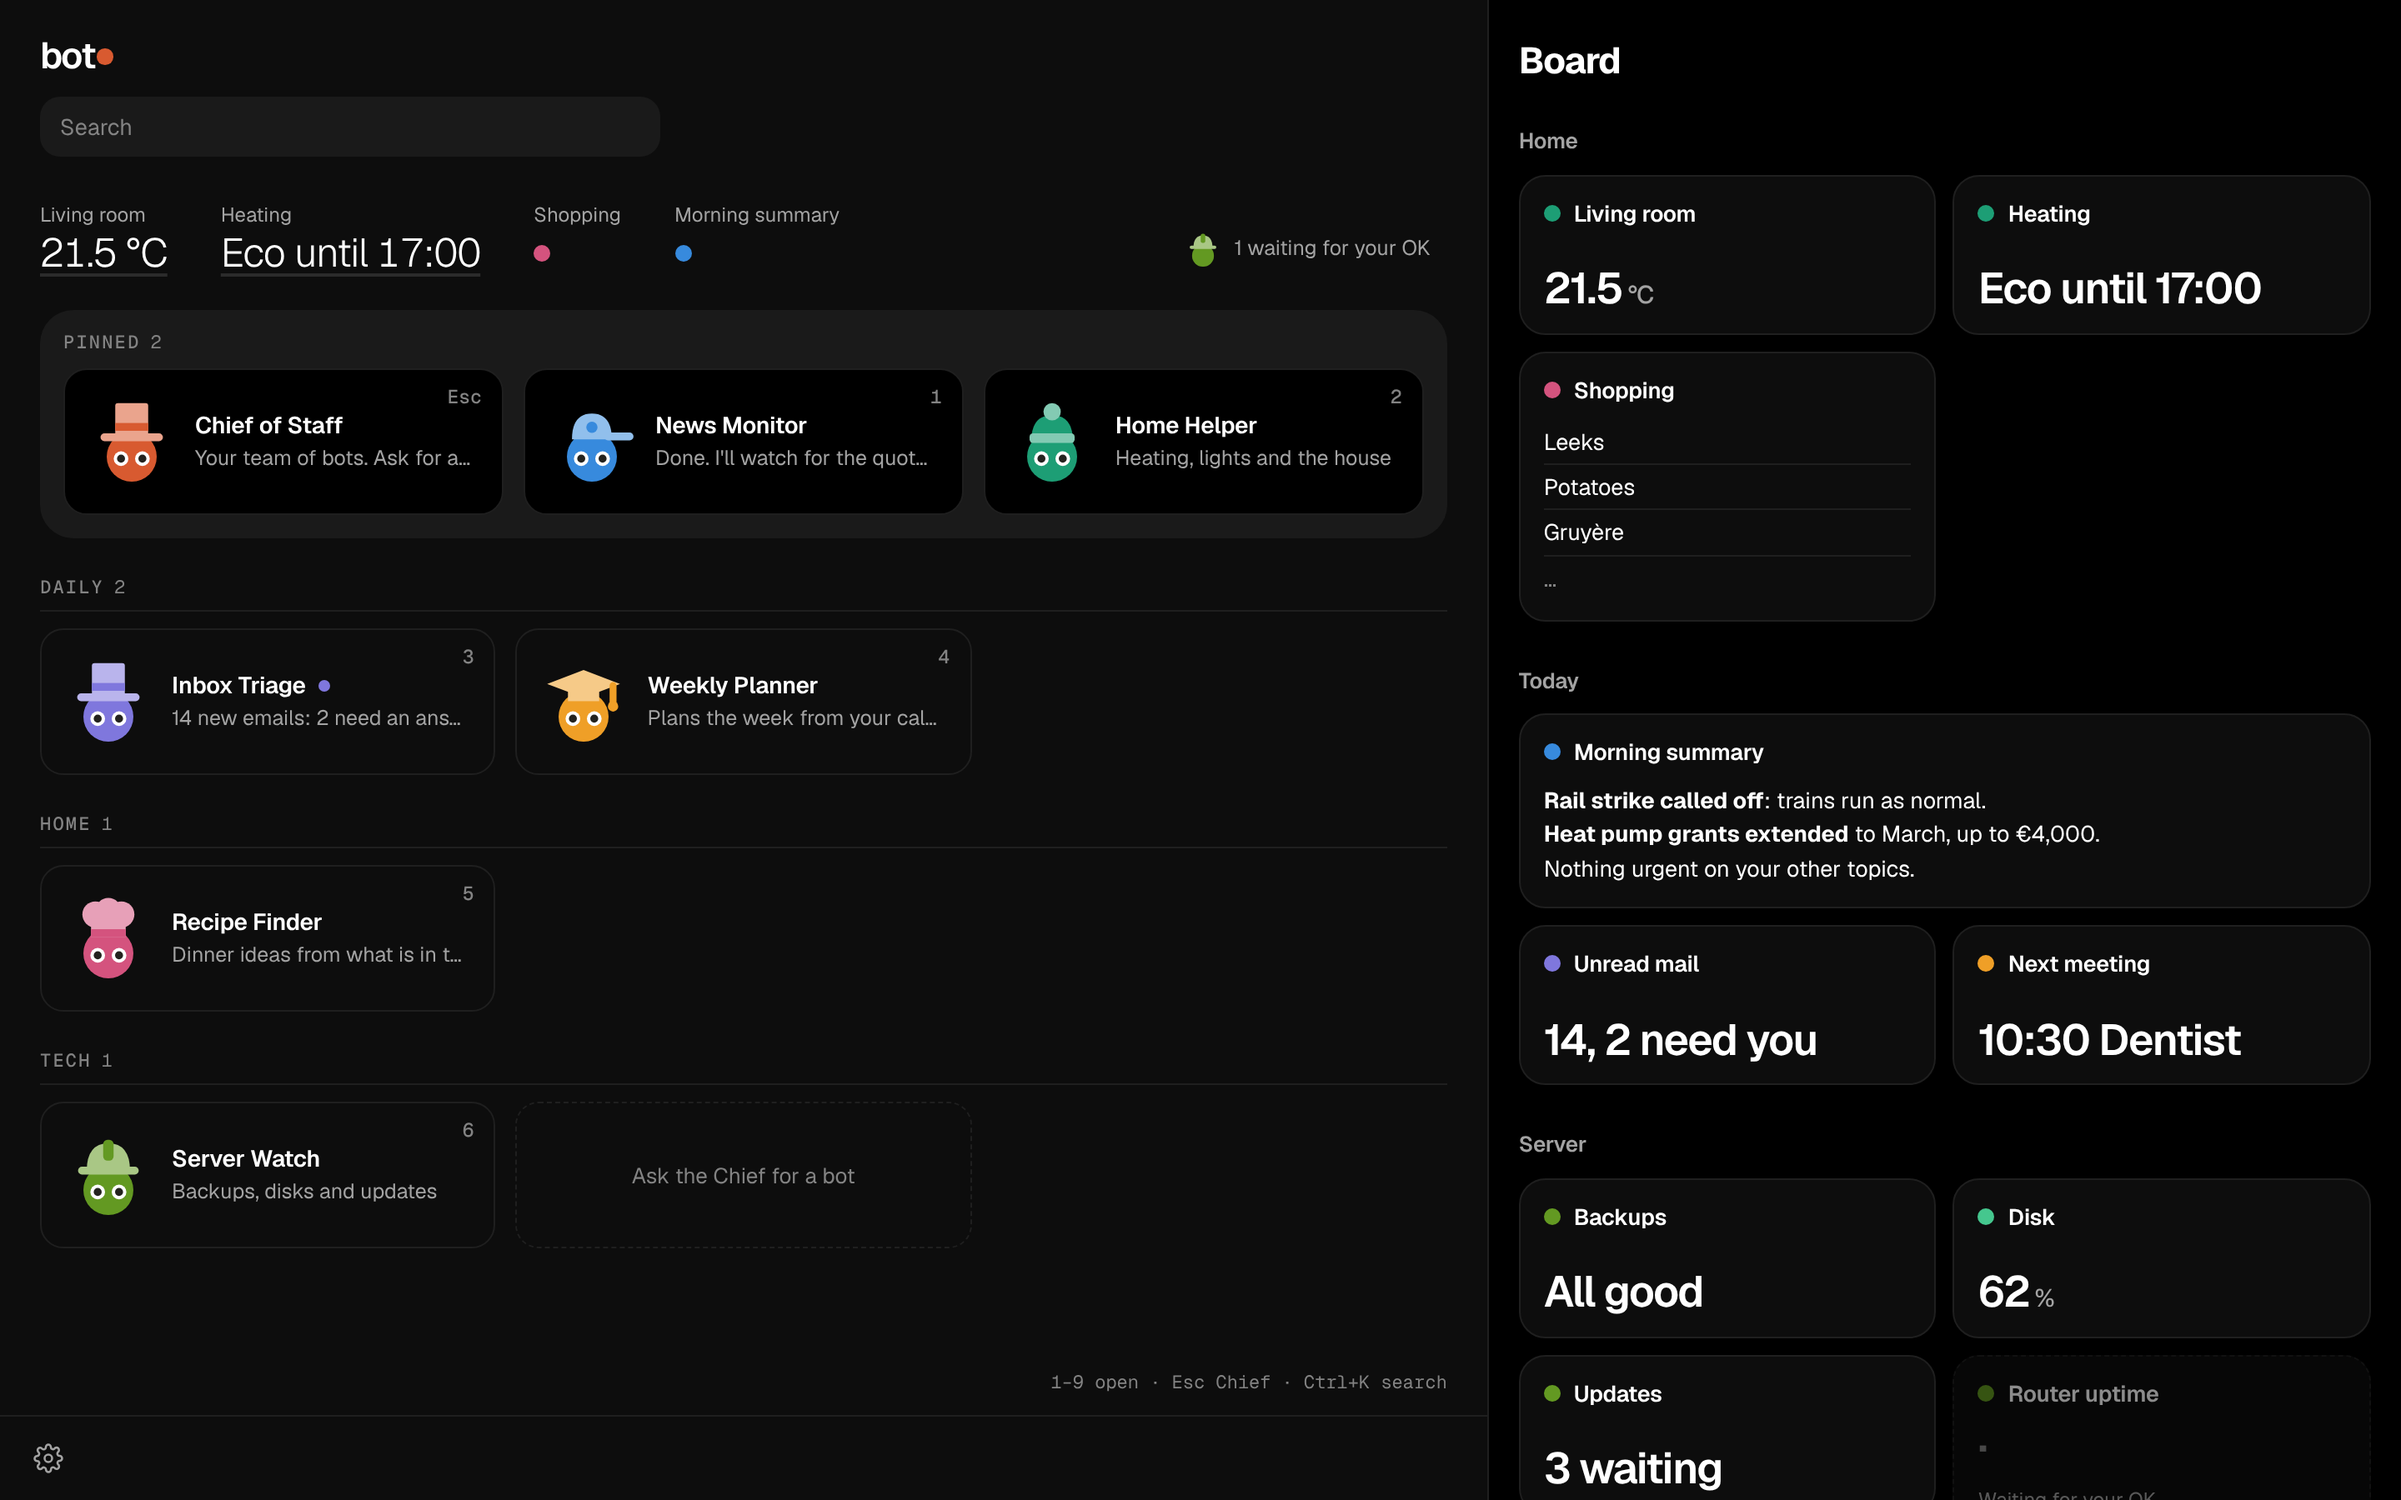
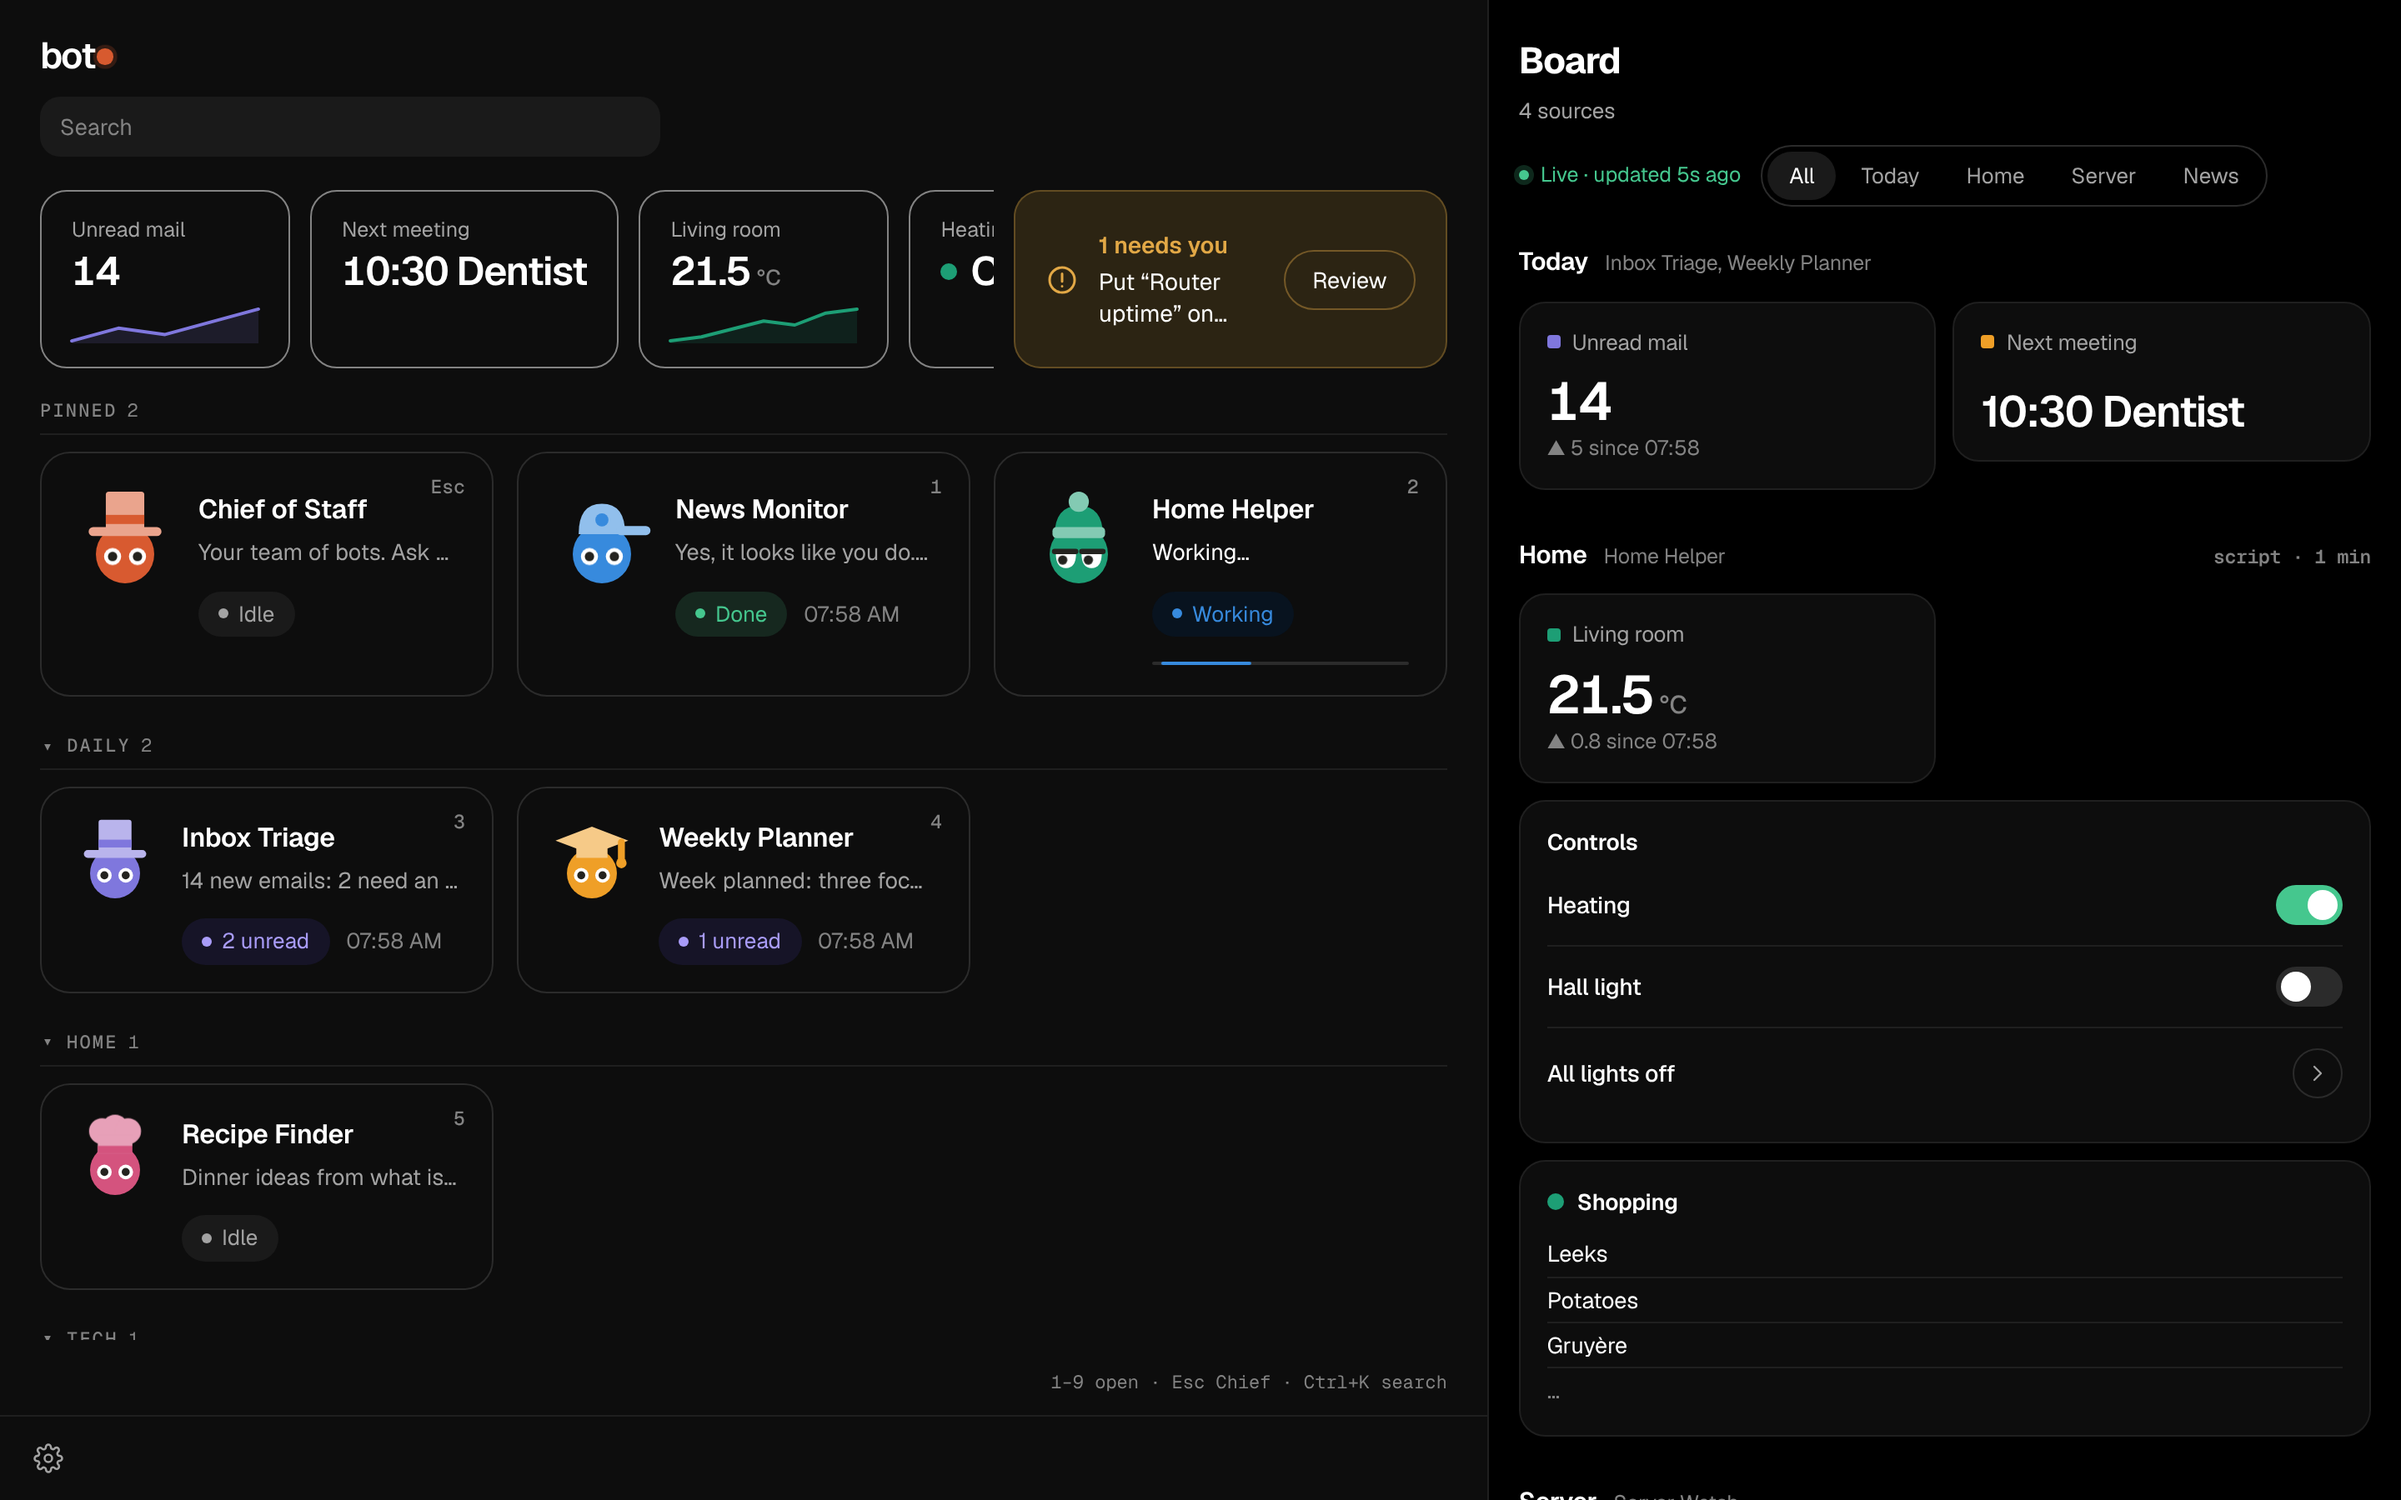
Retake the README screenshots from main and show a page
The web and phone screenshots now show the keypad with the Board's live
cards and key statuses, the Board's blocks and Controls box, and a new
README section on pages with a picture of one. Taken from scratch data
and the stand-in Claude.

Refs #428

Claude-Session: https://claude.ai/code/session_01W6KoDgY7Pqg3dPouoXYimf

diff --git a/README.md b/README.md
@@ -22,7 +22,7 @@
 
 A messenger-style app for a team of **bots**. Each bot is a Claude Code agent with its own job, and a **Chief of Staff** creates and runs them when you ask it in a chat. botdot runs on your own server, and you use it on the web and on Android.
 
-![botdot on the web in a wide window: the Board's values and the team as keys (the Chief of Staff and pinned bots, then the Daily, Home and Tech categories, each bot a coloured head with a hat and dots for new replies) on the left, and News Monitor's chat with its morning headlines on the right, in dark mode](docs/screenshots/web-home.png)
+![botdot on the web in a wide window: on the left the keypad, with the Board's values as live cards, one card for what needs you, and the team as keys (the Chief of Staff and pinned bots, then the Daily and Home categories), each bot a coloured head with a hat and its status: Working, Done, unread or Idle; on the right News Monitor's chat with its morning headlines](docs/screenshots/web-home.png)
 
 ## Features
 
@@ -31,7 +31,7 @@ A messenger-style app for a team of **bots**. Each bot is a Claude Code agent wi
 | 🎩 **Chief of Staff** | Tell it what you need. It makes the bots, changes them, runs them and reports back. It writes to you first when it finds something worth saying, briefs you at the times you name, and drafts the replies you owe from your mail. |
 | 🤖 **Bots with one job each** | Every bot has its own instructions, tools, permissions, workspace and scheduled jobs. Its face shows what it is doing. A busy bot answers a new message at once, and `/btw` asks it a quick side question without stopping its work. |
 | 📋 **The Board** | One page of live tiles for the things you use most: switches, values, lists and notes. [More below](#the-board). |
-| 📄 **Pages** | Reports and overviews a bot keeps for you, up to date on a schedule, with the Board's live numbers and charts. A bot with a computer can publish a small interactive site, sandboxed on an address of its own. Any long reply exports to Word, PDF, Markdown or Google Docs. |
+| 📄 **Pages** | Reports and overviews a bot keeps for you, up to date on a schedule, with the Board's live numbers and charts. A bot with a computer can publish a small interactive site, sandboxed on an address of its own. Any long reply exports to Word, PDF, Markdown or Google Docs. [More below](#pages). |
 | ⏰ **Scheduled jobs** | A job runs on a schedule. When no AI is needed, a small script runs instead. |
 | 👥 **Groups and shared rooms** | Put two to six bots in one chat, and they hand the work on to each other. On a machine of several accounts, shared rooms bring other people and their bots into one chat. |
 | 🧠 **Memory** | Bots remember what you tell them, and you correct or erase it by chat. |
@@ -44,7 +44,7 @@ A messenger-style app for a team of **bots**. Each bot is a Claude Code agent wi
 
 The Board is your page of tiles: the temperature, a light switch, a shopping list, your next meeting, a server's disk, a morning summary. It reads like a status page: numbers with how they changed and a line of recent values, charts, statuses and tables. Its values sit on top of the keypad and the list as small live cards, so the numbers you check every day are the first thing you see.
 
-![The Board on the web: tiles under the headings Home, Today and Server, with the living room temperature, the heating, a shopping list, a wide morning summary, unread mail, the next meeting, backups, disk use and updates, in dark mode](docs/screenshots/web-board.png)
+![The Board on the web, beside the keypad: headings Today and Home with the bots they come from, unread mail with its change since the morning, the next meeting, the living room temperature, and the heating, hall light and all-lights-off button in one Controls box](docs/screenshots/web-board.png)
 
 **You build it by chat.** There are no edit buttons: ask the Chief to "add a switch for the living room light", "move Server to the top" or "make the summary wide", and it does. You drag tiles to rearrange them.
 
@@ -68,6 +68,14 @@ Every tile belongs to a bot, uses that bot's saved logins and wears its colour. 
 
 The [user guide](docs/user-guide.md#board) has the details.
 
+## Pages
+
+Ask a bot for a report or an overview and it saves it as a page: a title, the numbers that matter with how they changed, charts, statuses and what waits for you. Tap **Keep up to date** and it rewrites the page every hour, morning or Monday, while numbers tied to the Board stay live.
+
+![A page by Server Watch, Home server: a weekly report with uptime, disk, backups and updates as numbers, a chart of CPU over the last seven days, disk use by folder, status pills and a callout that a kernel update waits for a restart](docs/screenshots/web-page.png)
+
+A bot that uses the computer can also publish an interactive page, a small site with views, filters or a kanban, sandboxed on an address of its own. The [user guide](docs/user-guide.md#pages-reports-and-overviews-your-bots-keep) has the details.
+
 ## Your team, run by chat
 
 <table>
@@ -87,7 +95,7 @@ botdot has one look, dark, on the web and on Android. A bot's head shows its sta
 
 <table>
 <tr>
-<td width="25%"><img src="docs/screenshots/phone-list.png" alt="The list on a phone: the Board's values on top, then pinned bots and the Daily, Home and Tech categories"></td>
+<td width="25%"><img src="docs/screenshots/phone-list.png" alt="The list on a phone: the Board's values on top as cards that scroll sideways, one card for what needs you, then the pinned bots with their status and the Daily category"></td>
 <td width="25%"><img src="docs/screenshots/phone-chat.png" alt="News Monitor's chat on a phone, with a 'Waiting for your OK' banner on top"></td>
 <td width="25%"><img src="docs/screenshots/phone-board.png" alt="The Board on a phone"></td>
 <td width="25%"><img src="docs/screenshots/phone-needs-you.png" alt="Needs you on a phone: Server Watch asks to put 'Router uptime' on the Board, with its script and the buttons Decline and remove, and Approve"></td>

diff --git a/AGENTS.md b/AGENTS.md
@@ -111,7 +111,7 @@ Single-context: one `CONTEXT.md` + `docs/adr/` at the repo root. See `docs/agent
 | `docs/DECISIONS.md` | One dated line per small, non-obvious choice that is not architecture |
 | `docs/agents/` | What the skills read: the issue tracker (`issue-tracker.md`), the triage labels (`triage-labels.md`) and the domain documents (`domain.md`) |
 | `docs/archive/` | Past working notes, kept for history: reviews, audits, acceptance and memory reports, research notes, feature test lists and the Milestone 1 screenshots (`evidence/`) |
-| `docs/screenshots/` | The README's picture of the web page |
+| `docs/screenshots/` | The README's screenshots of the web page and the phone |
 | `scripts/` | `dev.js`, what `npm start` runs (the server behind the front door, on this machine), `check-code.js` and `typecheck.sh` (`make lint`'s code and type checks, `tsconfig.json`), and the tests of the documentation link check |
 | `tests/` | Cross-component checks |
 | `server.js`, `lib/` | The botdot server: API, bots, jobs, memory, the Chief's MCP server; `server.js` starts it and tries the routes of `lib/routes/` (one module per feature) in order |
